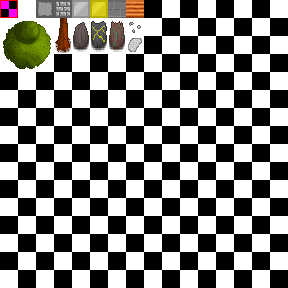
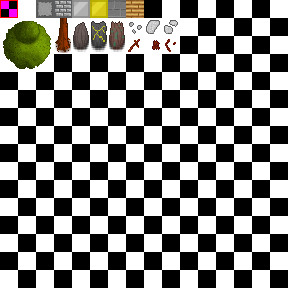
[Server, Common, Client] Added and modified some tiles

Changed region(s): [[0.4375, 0.0625, 0.625, 0.1875], [0.4375, 0.0, 0.5, 0.0938], [0.1875, 0.0, 0.25, 0.0625]]

diff --git a/server-source/World/Generators/NaturalGenerator.cpp b/server-source/World/Generators/NaturalGenerator.cpp
@@ -20,6 +20,7 @@ void NaturalGenerator::init()
     ground_levels.push_back(GameGrounds::GRASS->getId());
     ground_levels.push_back(GameGrounds::STONE->getId());
     ground_levels.push_back(GameGrounds::STONE->getId());
+    ground_levels.push_back(GameGrounds::STONE->getId());
 
     random_blocks.push_back(GameBlocks::IRON->getId());
     random_blocks.push_back(GameBlocks::GOLD->getId());
@@ -52,8 +53,28 @@ void NaturalGenerator::generateChunk(Chunk* chunk)
             if (perlin_value < 0.)
                 perlin_value = 0.;
 
-            if (std::round(perlin_value) >= 4 && std::rand() % 20 == 0)
-                chunk->setBlock(x, y, GameBlocks::BOULDER);
+            if (std::round(perlin_value) >= 5 && std::rand() % 22 == 0)
+                chunk->setBlock(x, y, GameBlocks::STONE_PLATE);
+
+            if (std::round(perlin_value) >= 3 && std::round(perlin_value) <= 4 && std::rand() % 18 == 0)
+                chunk->setBlock(x, y, GameBlocks::STICKS);
+
+            if (std::round(perlin_value) >= 6 && std::rand() % 3 == 0)
+            {
+                switch (std::rand() % 4)
+                {
+                case 0: case 1:
+                    chunk->setBlock(x, y, GameBlocks::BOULDER);
+                    break;
+                case 2:
+                    chunk->setBlock(x, y, GameBlocks::COPPER_ORE);
+                    break;
+                case 3:
+                    chunk->setBlock(x, y, GameBlocks::GOLD_ORE);
+                    break;
+                }
+            }
+
 
             chunk->setGround(x, y, ground_levels.at(std::round(perlin_value)));
         }

diff --git a/client-source/World/Chunk.cpp b/client-source/World/Chunk.cpp
@@ -186,7 +186,10 @@ void Chunk::generateGroundDetailVertices() const
             {
                 const Ground* ground = getGround(x, y);
 
-                GroundInfo gi(world, getBlockPosInWorld(x, y));
+                sf::Vector2i tile_pos = getBlockPosInWorld(x, y);
+
+                GroundInfo gi(world, tile_pos);
+                BlockInfo bi(world, tile_pos);
 
                 if (!ground->hasSurfaceDetails(gi))
                     continue;
@@ -216,7 +219,14 @@ void Chunk::generateBlockSideVertices() const
                 continue;
 
             if (!block->hasVolume(bi))
+            {
+                TextQuad plane = block->getTopVertices(bi);
+
+                for (size_t i = 0; i < 4; i++)
+                    block_side_vertices.append(plane.verts[i]);
+
                 continue;
+            }
 
             if (!block->alwaysVisible() && block_down->occults(bi_down))
                 continue;
@@ -239,6 +249,9 @@ void Chunk::generateBlockTopVertices() const
             BlockInfo bi(world, getBlockPosInWorld(x, y));
 
             if (block == GameBlocks::AIR)
+                continue;
+
+            if (!block->hasVolume(bi))
                 continue;
 
             TextQuad top = block->getTopVertices(bi);

diff --git a/common-source/Blocks/GameBlocks.cpp b/common-source/Blocks/GameBlocks.cpp
@@ -10,7 +10,11 @@ Block const * const GameBlocks::STONE_BRICKS    = new Block("bricks", true, 3);
 Block const * const GameBlocks::IRON            = new Block("iron", true, 4);
 Block const * const GameBlocks::GOLD            = new Block("gold", true, 5);
 Block const * const GameBlocks::WOOD            = new Block("wood", true, 7);
-Block const * const GameBlocks::BOULDER         = new BlockBoulder();
+Block const * const GameBlocks::STICKS          = new GroundBlock("wood_sticks", true, 39, 3);
+Block const * const GameBlocks::STONE_PLATE     = new GroundBlock("stone_pebbles", true, 23, 3);
+Block const * const GameBlocks::BOULDER         = new BlockBoulder("boulder", 20, 36);
+Block const * const GameBlocks::GOLD_ORE        = new BlockBoulder("gold_ore", 21, 37);
+Block const * const GameBlocks::COPPER_ORE      = new BlockBoulder("copper_ore", 22, 38);
 
 GameBlocks::GameBlocks()
 {
@@ -35,7 +39,11 @@ void GameBlocks::initBlocks()
     addBlock(IRON);
     addBlock(GOLD);
     addBlock(WOOD);
+    addBlock(STICKS);
+    addBlock(STONE_PLATE);
     addBlock(BOULDER);
+    addBlock(GOLD_ORE);
+    addBlock(COPPER_ORE);
 }
 
 void GameBlocks::addBlock(Block const * block)

diff --git a/common-source/Blocks/GroundBlock.h b/common-source/Blocks/GroundBlock.h
@@ -1,0 +1,27 @@
+#pragma once
+
+#include "Block.h"
+
+class GroundBlock : public Block
+{
+    public:
+        GroundBlock(const std::string name, bool should_have_item, uint32_t default_textures_begin, uint32_t default_textures_count);
+        virtual ~GroundBlock();
+
+        inline bool isSolid(BlockInfo info) const override { return false; }
+        inline bool hasVolume(BlockInfo info) const override { return false; }
+
+        #ifdef CLIENT_SIDE
+        inline bool occults(BlockInfo info) const { return false; }
+
+        TextQuad getTopVertices(BlockInfo info) const override;
+        #endif
+
+    protected:
+        #ifdef CLIENT_SIDE
+        inline uint32_t getTopTextureNumber(BlockInfo info) const override { return getDefaultTexture() + getRandomInt(info, 12) % default_textures_count; }
+        #endif // CLIENT_SIDE
+
+    private:
+        const uint32_t default_textures_count;
+};

diff --git a/common-source/Blocks/Block.cpp b/common-source/Blocks/Block.cpp
@@ -1,7 +1,12 @@
 #include "Block.h"
 
-#ifndef CLIENT_SIDE
-#include "../Items/ItemsRegister.h"
+#ifdef CLIENT_SIDE
+    #include "../../client-source/Utils/XXHash.hpp"
+    #include "../../client-source/Utils/XXHash_bis.hpp"
+
+    #include "../../client-source/World/World.h"
+#else
+    #include "../Items/ItemsRegister.h"
 #endif // CLIENT_SIDE
 
 #ifdef CLIENT_SIDE
@@ -48,6 +53,13 @@ TextQuad Block::getSideVertices(BlockInfo info) const
         for (int i = 0; i < 4; i++)
             side.verts[i].color = sf::Color(127, 127, 127);
     return side;
+}
+
+uint32_t Block::getRandomInt(BlockInfo info, int add)
+{
+    //Pseudo random from seed and ground position
+    sf::Vector2i pos = info.getPos();
+    return XXH32(&pos, sizeof(pos), info.getWorld().getSeed() + add);
 }
 #else
 std::vector<ItemStack> Block::getDrops() const

diff --git a/common-source/Blocks/Block.h b/common-source/Blocks/Block.h
@@ -108,6 +108,14 @@ class Block
          * @return True if the side should be darkened
          */
         virtual inline bool darkenSide() const { return true; }
+        /**
+         * Get a random-looking int deterministically depending on the position of the block and seed of the world
+         * @param info : Info about the block, for position and seed
+         * @return The pseudo-random int
+         */
+        static uint32_t getRandomInt(BlockInfo info, int add = 0);
+
+        inline uint32_t getDefaultTexture() const { return default_texture; }
         #endif
 
     private:
@@ -117,7 +125,7 @@ class Block
         const bool has_item;
 
         #ifdef CLIENT_SIDE
-        uint32_t default_texture;
+        const uint32_t default_texture;
         #else
         mutable Item const * drop;
         #endif

diff --git a/common-source/Blocks/GameBlocks/BlockBoulder.h b/common-source/Blocks/GameBlocks/BlockBoulder.h
@@ -5,15 +5,16 @@
 class BlockBoulder : public Block
 {
     public:
-        BlockBoulder();
+        BlockBoulder(const std::string name, uint32_t top_texture, uint32_t side_texture);
         virtual ~BlockBoulder();
 
     protected:
         #ifdef CLIENT_SIDE
         inline bool occults(BlockInfo info) const override { return false; }
-        inline uint32_t getSideTextureNumber(BlockInfo info) const override { return 36; }
+        inline uint32_t getSideTextureNumber(BlockInfo info) const override { return side_texture; }
         inline bool darkenSide() const override { return false; }
         #endif
     private:
+        uint32_t side_texture;
 };
 

diff --git a/common-source/Blocks/GameBlocks.h b/common-source/Blocks/GameBlocks.h
@@ -5,6 +5,7 @@
 #include "GameBlocks/BlockAir.h"
 #include "GameBlocks/BlockError.h"
 #include "GameBlocks/BlockBoulder.h"
+#include "GroundBlock.h"
 
 #include <vector>
 #include <unordered_map>
@@ -44,7 +45,11 @@ class GameBlocks
         static Block const * const IRON;
         static Block const * const GOLD;
         static Block const * const WOOD;
+        static Block const * const STICKS;
+        static Block const * const STONE_PLATE;
         static Block const * const BOULDER;
+        static Block const * const GOLD_ORE;
+        static Block const * const COPPER_ORE;
 
     private:
         std::vector<Block const *> blocks;

diff --git a/common-source/Blocks/GroundBlock.cpp b/common-source/Blocks/GroundBlock.cpp
@@ -1,0 +1,21 @@
+#include "GroundBlock.h"
+
+GroundBlock::GroundBlock(const std::string name, bool should_have_item, uint32_t default_textures_begin, uint32_t default_textures_count) :
+    Block(name, should_have_item, default_textures_begin),
+    default_textures_count(default_textures_count)
+{
+    //ctor
+}
+
+GroundBlock::~GroundBlock()
+{
+    //dtor
+}
+
+#ifdef CLIENT_SIDE
+TextQuad GroundBlock::getTopVertices(BlockInfo info) const
+{
+    TextQuad top = utils::getSquare(Block::tilesetHelper.getFourVertices(getTopTextureNumber(info), getRandomInt(info, 5678)), info.getPos());
+    return top;
+}
+#endif

diff --git a/common-source/Blocks/GameBlocks/BlockBoulder.cpp b/common-source/Blocks/GameBlocks/BlockBoulder.cpp
@@ -1,7 +1,8 @@
 #include "BlockBoulder.h"
 
-BlockBoulder::BlockBoulder() :
-    Block("boulder", true, 20)
+BlockBoulder::BlockBoulder(const std::string name, uint32_t top_texture, uint32_t side_texture) :
+    Block(name, false, top_texture),
+    side_texture(side_texture)
 {
     //ctor
 }
